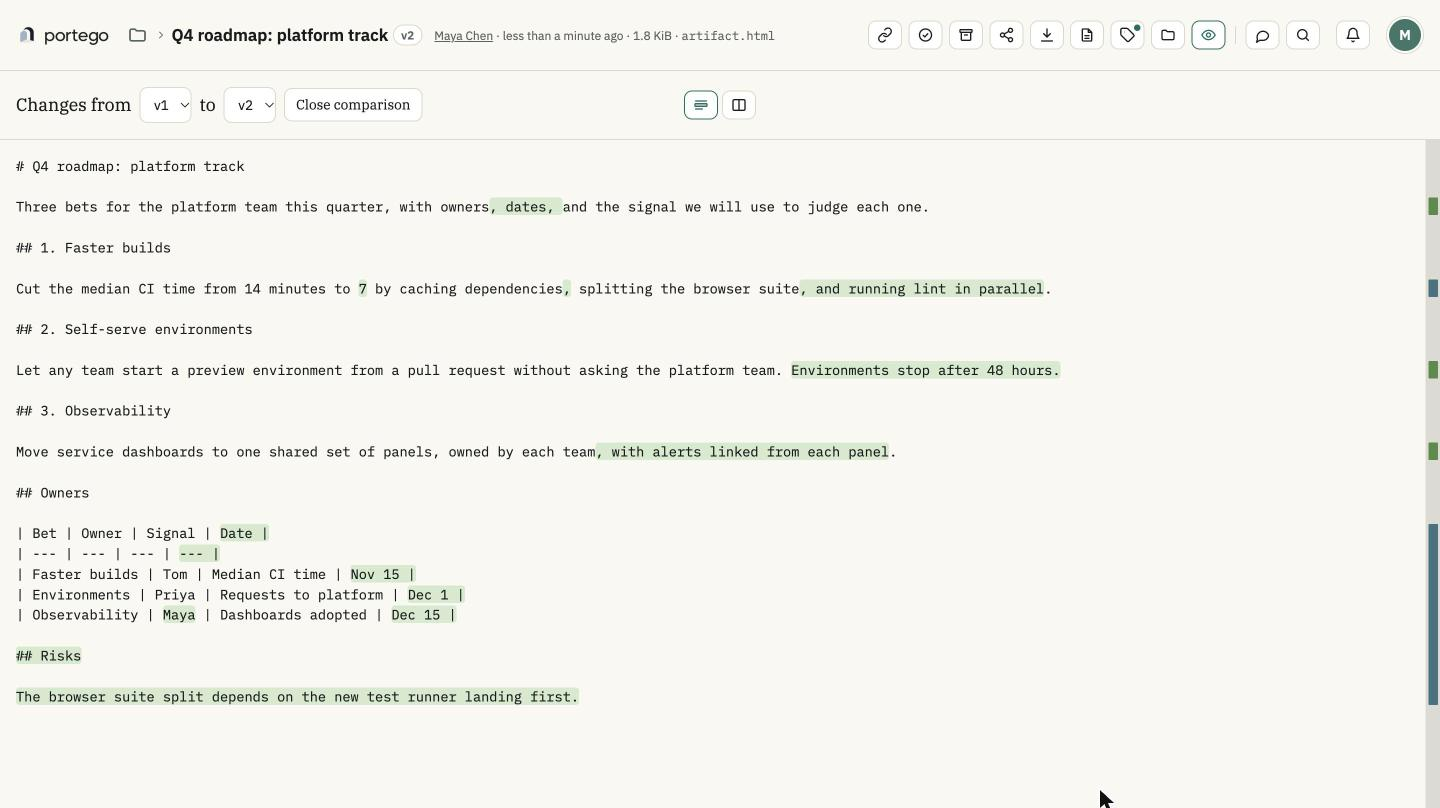
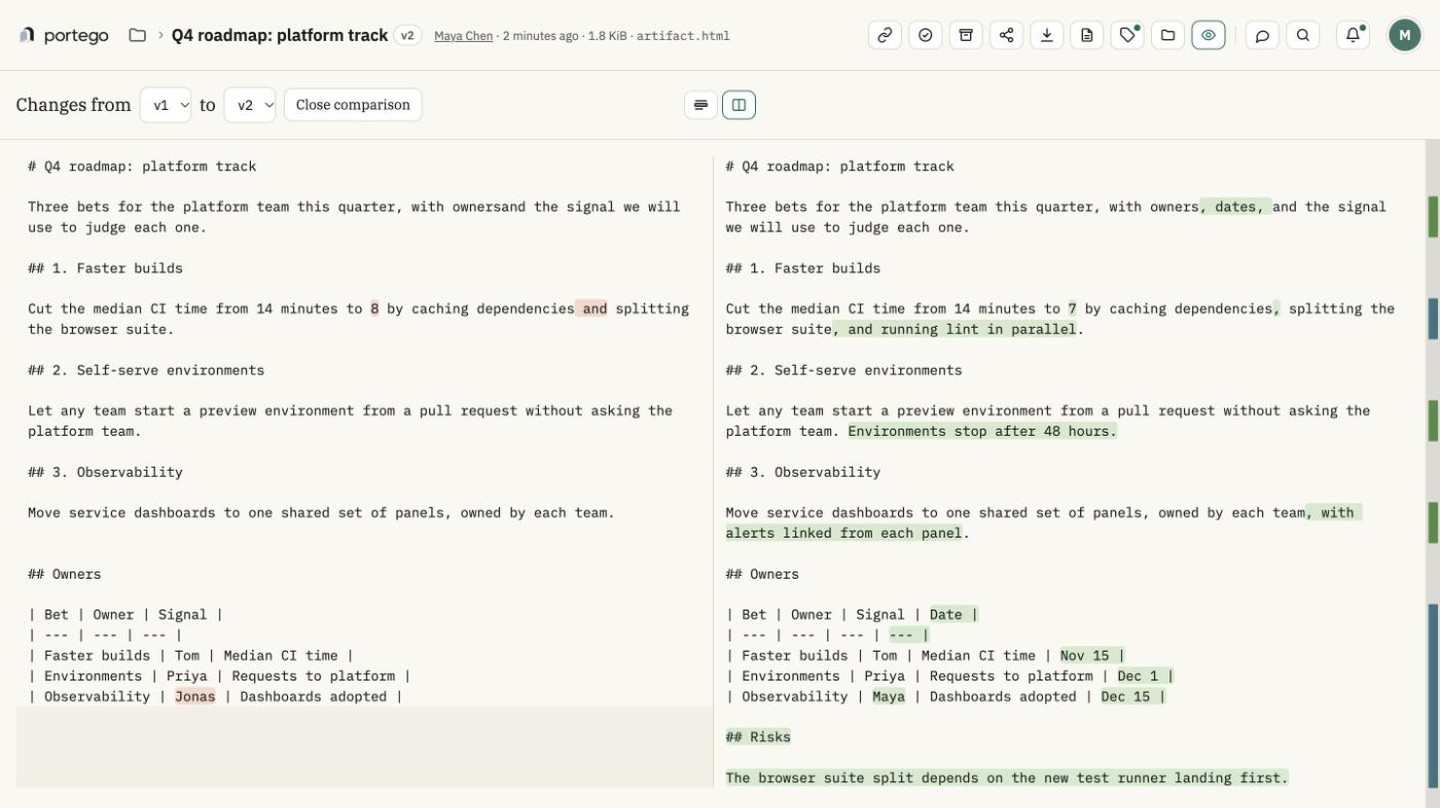
Show the side-by-side view in the version comparison screenshot

diff --git a/README.md b/README.md
@@ -18,7 +18,7 @@ Each upload of the same artifact is a new version. Compare any two versions
 from the versions panel, with changes highlighted in place or side by side. A
 minimap along the edge marks where text was added, removed, or changed.
 
-![Two versions compared, with the changes highlighted and marked on the minimap](docs/images/version-compare.jpg)
+![Two versions side by side, with removed text on the left, added text on the right, and the changes marked on the minimap](docs/images/version-compare.jpg)
 
 ### Comment on a passage
 
